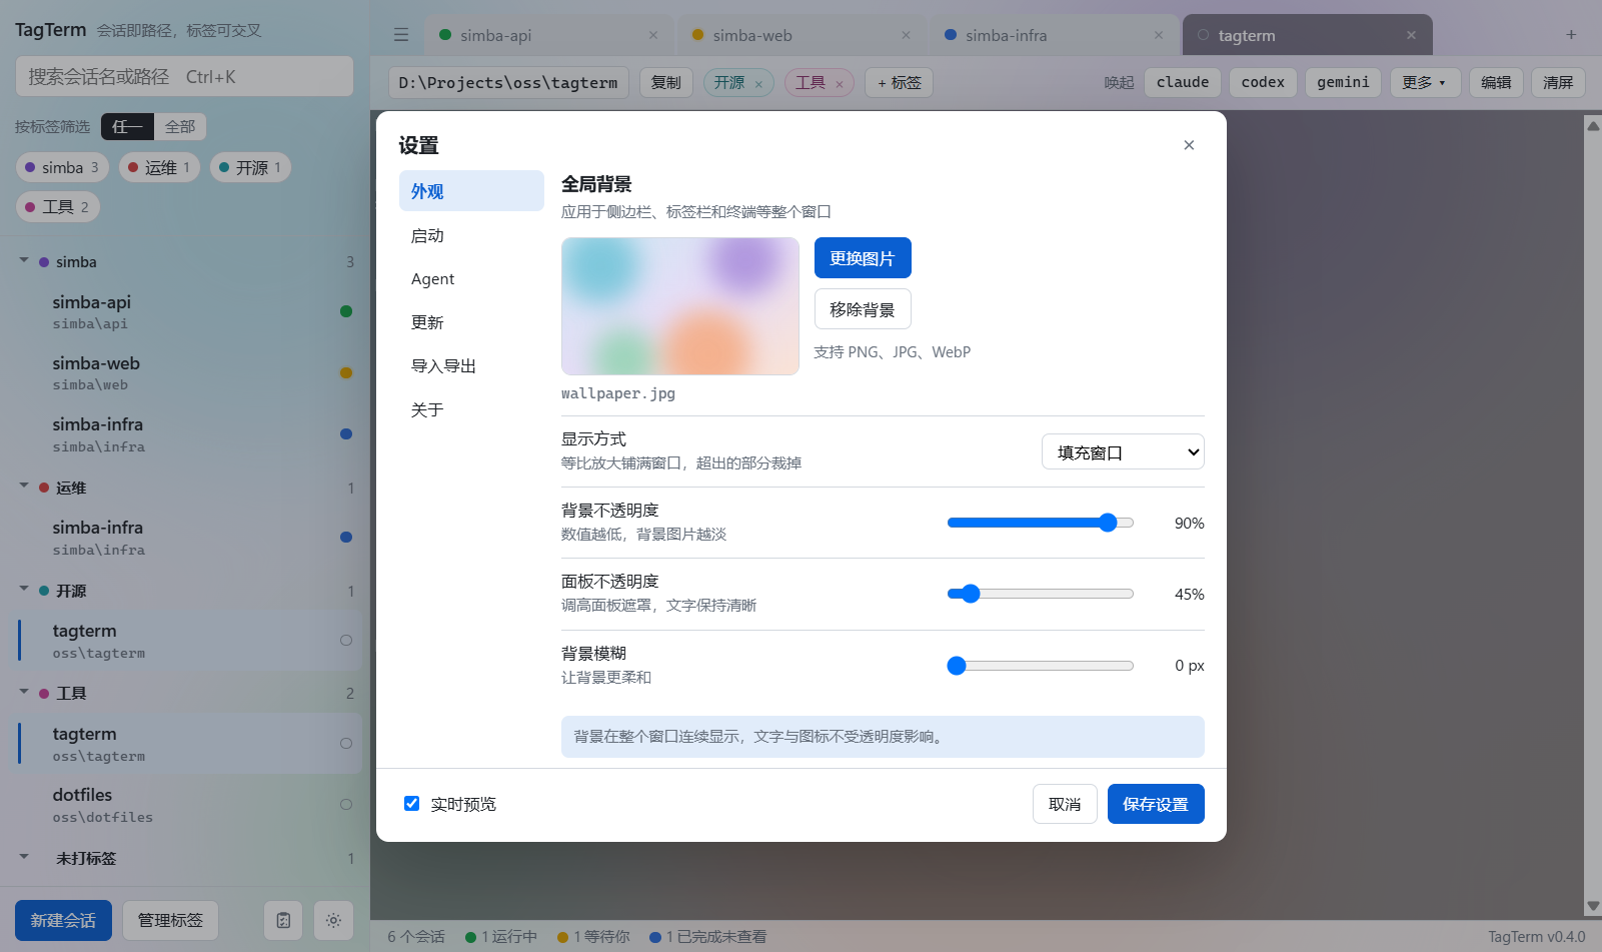
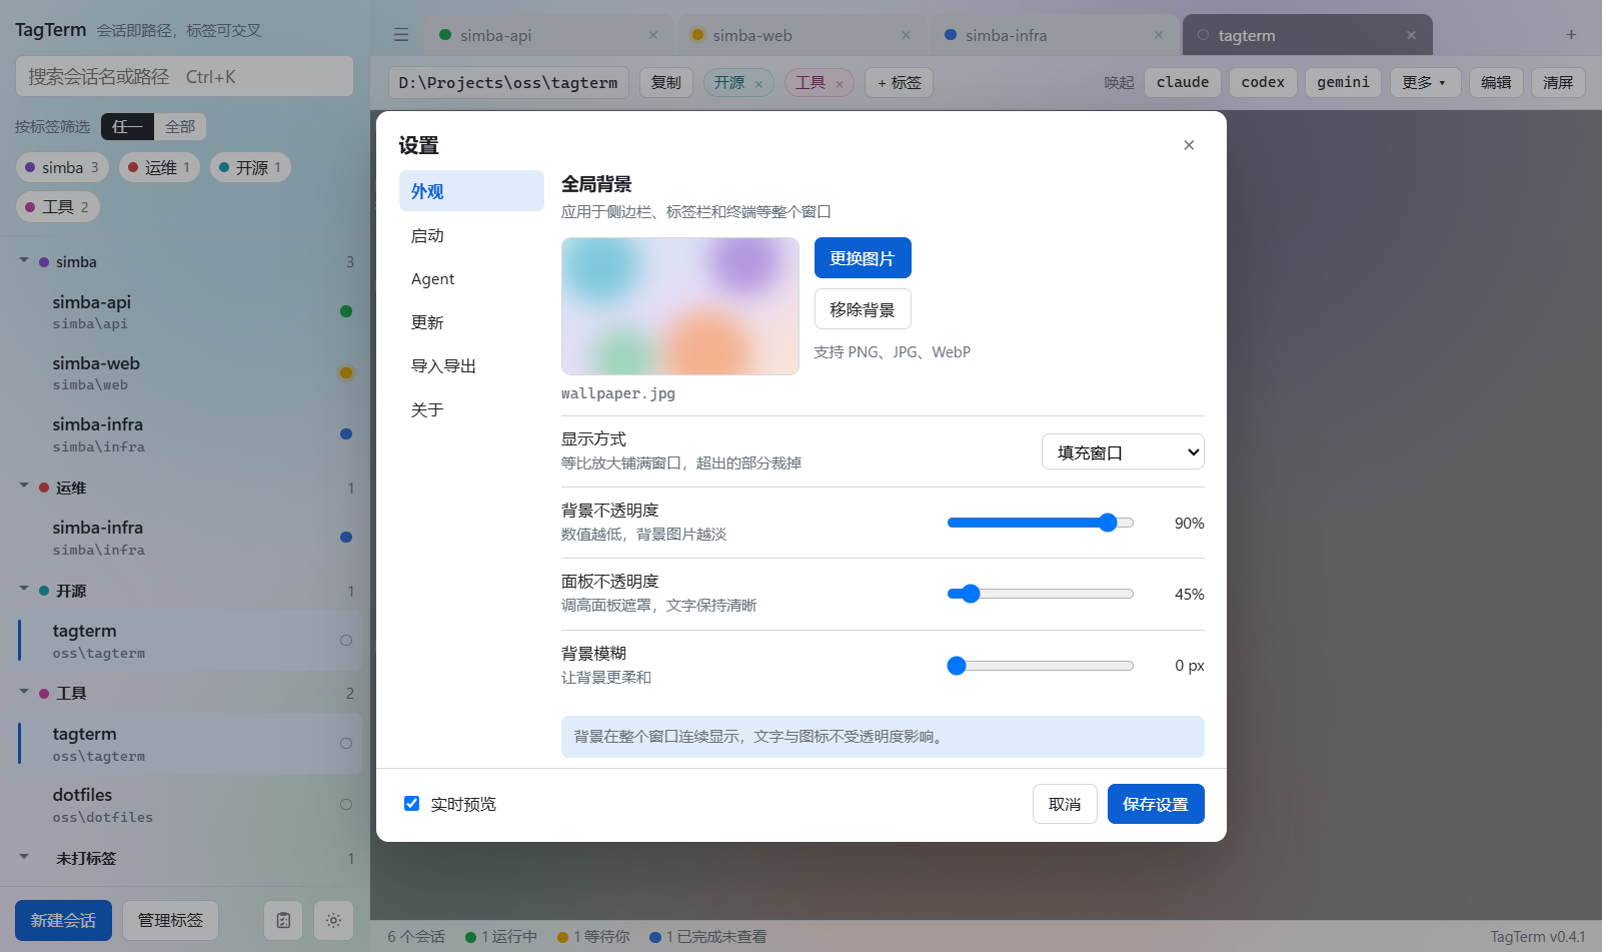
版本升至 0.4.1：终端右缘不再露出原生滚动条，截图随版本重生成
- package.json 与 README 中英两份的功能标题改为 v0.4.1

- docs/screenshots 五张用 pnpm screenshots 演示数据重生成（状态栏 v0.4.1）

Changed region(s): [[0.9363, 0.1218, 1.0, 1.0]]

diff --git a/README.en.md b/README.en.md
@@ -12,7 +12,7 @@ A small Windows desktop tool: **save the project folders you use most as termina
 
 When you use AI coding tools in several projects at once, every time you have to find the project folder, type `cmd` in the address bar, then type `claude`; once a pile of terminal windows is open, you can no longer tell which tool has stopped and is waiting for your approval. TagTerm folds both into one window: a session is a path, and the status is visible at a glance.
 
-## Features (v0.4.0)
+## Features (v0.4.1)
 
 ### Sessions and terminals
 

diff --git a/README.md b/README.md
@@ -12,7 +12,7 @@
 
 同时在好几个项目里用 AI 编程工具时，每次都要找到项目文件夹、在地址栏敲 `cmd`、再敲 `claude`；开了一堆终端窗口后，又分不清哪个窗口里的工具停下来在等你批准。TagTerm 把这两件事收进一个窗口：会话即路径，状态一眼可见。
 
-## 功能（v0.4.0）
+## 功能（v0.4.1）
 
 ### 会话与终端
 
